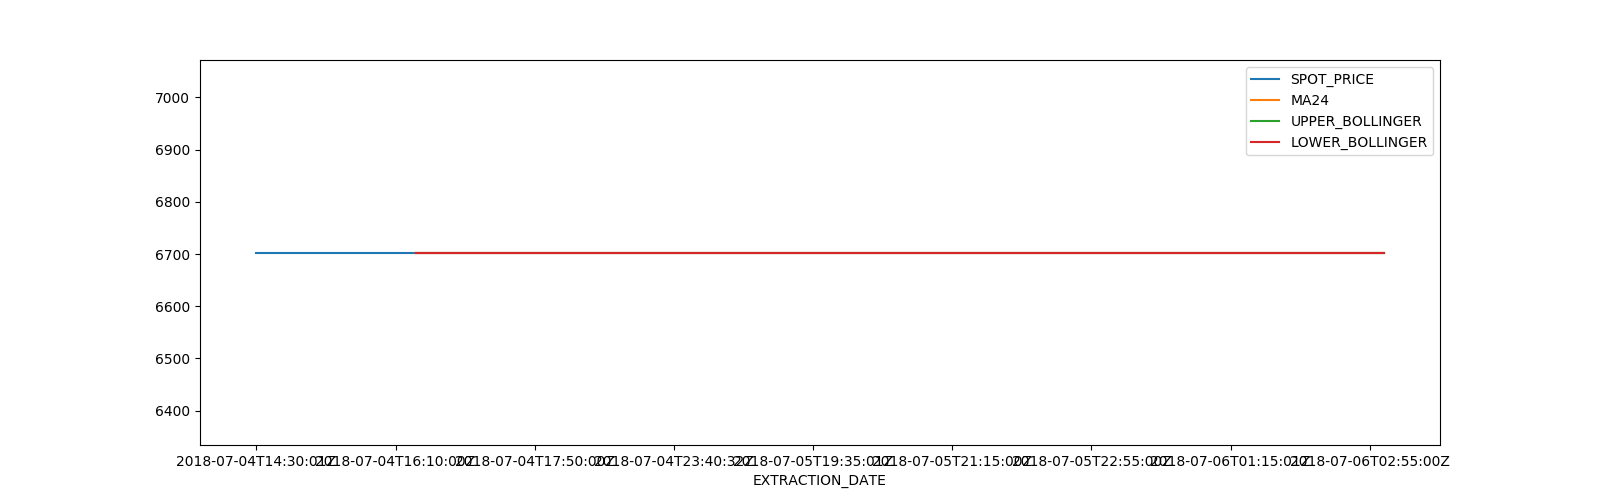
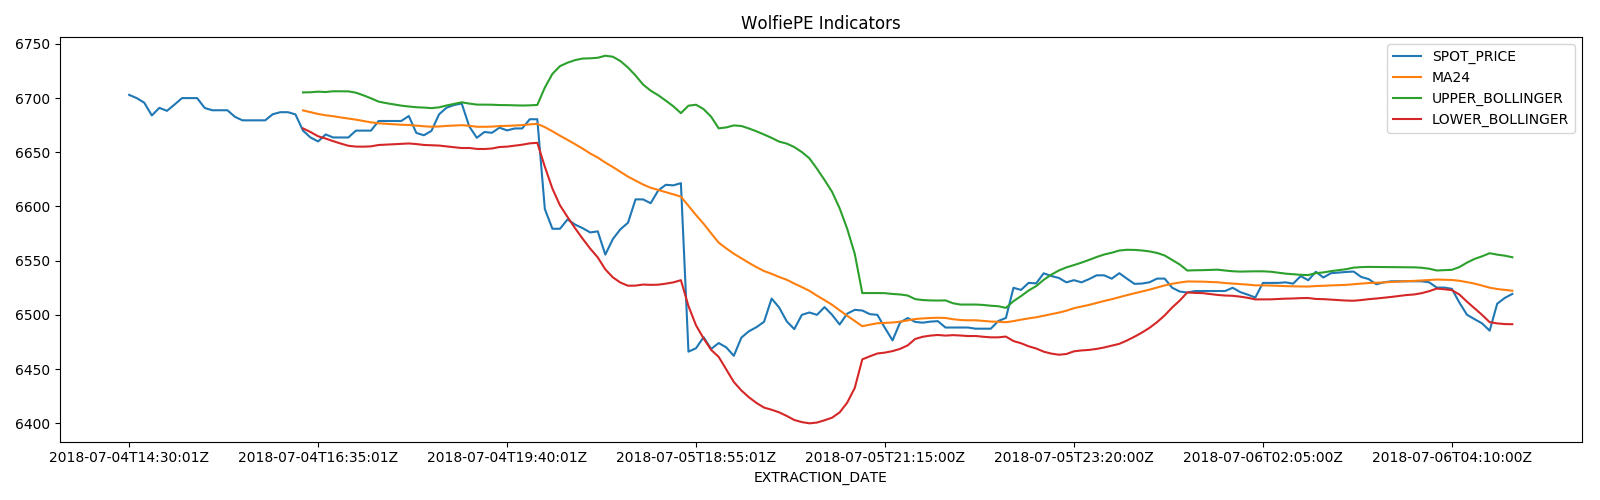
One preview of the code with more accurate data

diff --git a/data_massage.py b/data_massage.py
@@ -1,5 +1,5 @@
 #Author: Nicolas Nunez
-#Will put my data in lovely csv format
+#Put my fucking data in lovely csv format
 
 import csv
 import json
@@ -10,15 +10,23 @@ with open('data/spot_price.json', 'r') as spot, \
         open('data/sell_price.json', 'r') as sell, \
         open('data/buy_price.json', 'r') as buy, \
         open('data/timestamps.json') as timestamps:
-    records = [(json.loads(l), json.loads(i), json.loads(j), json.loads(k)) for i in buy for j in spot for k in sell for l in timestamps]
 
-price_record = {'EXTRACTION_DATE': list(), 'BUY_PRICE': list(), 'BUY_PRICE_CURRENCY': list(), 'SPOT_PRICE': list(), 'SPOT_PRICE_CURRENCY': list(), 'SELL_PRICE': list(), 'SELL_PRICE_CURRENCY': list()}
+    records = list()
+    for a,b,c,d in zip(timestamps, buy, spot, sell):
+        records.append((json.loads(a),json.loads(b),json.loads(c),json.loads(d)))
+
+price_record = {'EXTRACTION_DATE': list(),
+                'BUY_PRICE': list(),
+                'BUY_PRICE_CURRENCY': list(),
+                'SPOT_PRICE': list(),
+                'SPOT_PRICE_CURRENCY': list(),
+                'SELL_PRICE': list(),
+                'SELL_PRICE_CURRENCY': list()}
 for record in records:
     i = 0
     for data in record:
         if 'data' in data.keys():
             if 'iso' in data['data'].keys():
-                # print('Parsing a date')
                 i += 1
                 date = data['data']['iso']
                 price_record['EXTRACTION_DATE'].append(date)

diff --git a/wolftrader/wolf.py b/wolftrader/wolf.py
@@ -30,8 +30,6 @@ def mine():
 
 def __calculate():
     log_info('Calculate Indicators')
-    print(user_dao.get_user_emails())
-    print(user_dao.get_user_by_id('1'))
     prices = price_history_dao.get_price_records()
     prices_dataframe = pd.DataFrame(data=prices['records'], columns=prices['column_names'])
     prices_dataframe.set_index(keys='EXTRACTION_DATE', inplace=True)
@@ -40,11 +38,15 @@ def __calculate():
     prices_dataframe['LOWER_BOLLINGER'] = prices_dataframe['MA24'] - (2 * prices_dataframe['SPOT_PRICE'].rolling(24).std())
     print(prices_dataframe[['SPOT_PRICE', 'MA24', 'UPPER_BOLLINGER', 'LOWER_BOLLINGER']])
     prices_dataframe[['SPOT_PRICE', 'MA24', 'UPPER_BOLLINGER', 'LOWER_BOLLINGER']].plot(figsize=(16, 5))
+    plt.title("WolfiePE Indicators")
+    plt.tight_layout()
     plt.savefig(indicators_graph)
+    # plt.show()
 
 def process():
     log_info('Data Processing')
     __calculate()
+    email_util.send_email("indicators", None, ['nicolasnunezromay@gmail.com'], "hola", 'report')
 
 def trade():
     log_info('Wolf Trader')

diff --git a/wolftrader/dao/user_dao.py b/wolftrader/dao/user_dao.py
@@ -27,6 +27,7 @@ class UserDAO(DatabaseUtil):
             cursor = DatabaseUtil.cursor.execute(sql)
             data = cursor.fetchall()
             log_info('{} | get_user_emails successful, SQL={} '.format(UserDAO.class_name, sql))
+            print(data, type(data))
             return data
         except Exception as error:
             log_critical('{} | get_user_emails. Error: {}'.format(UserDAO.class_name, error))
